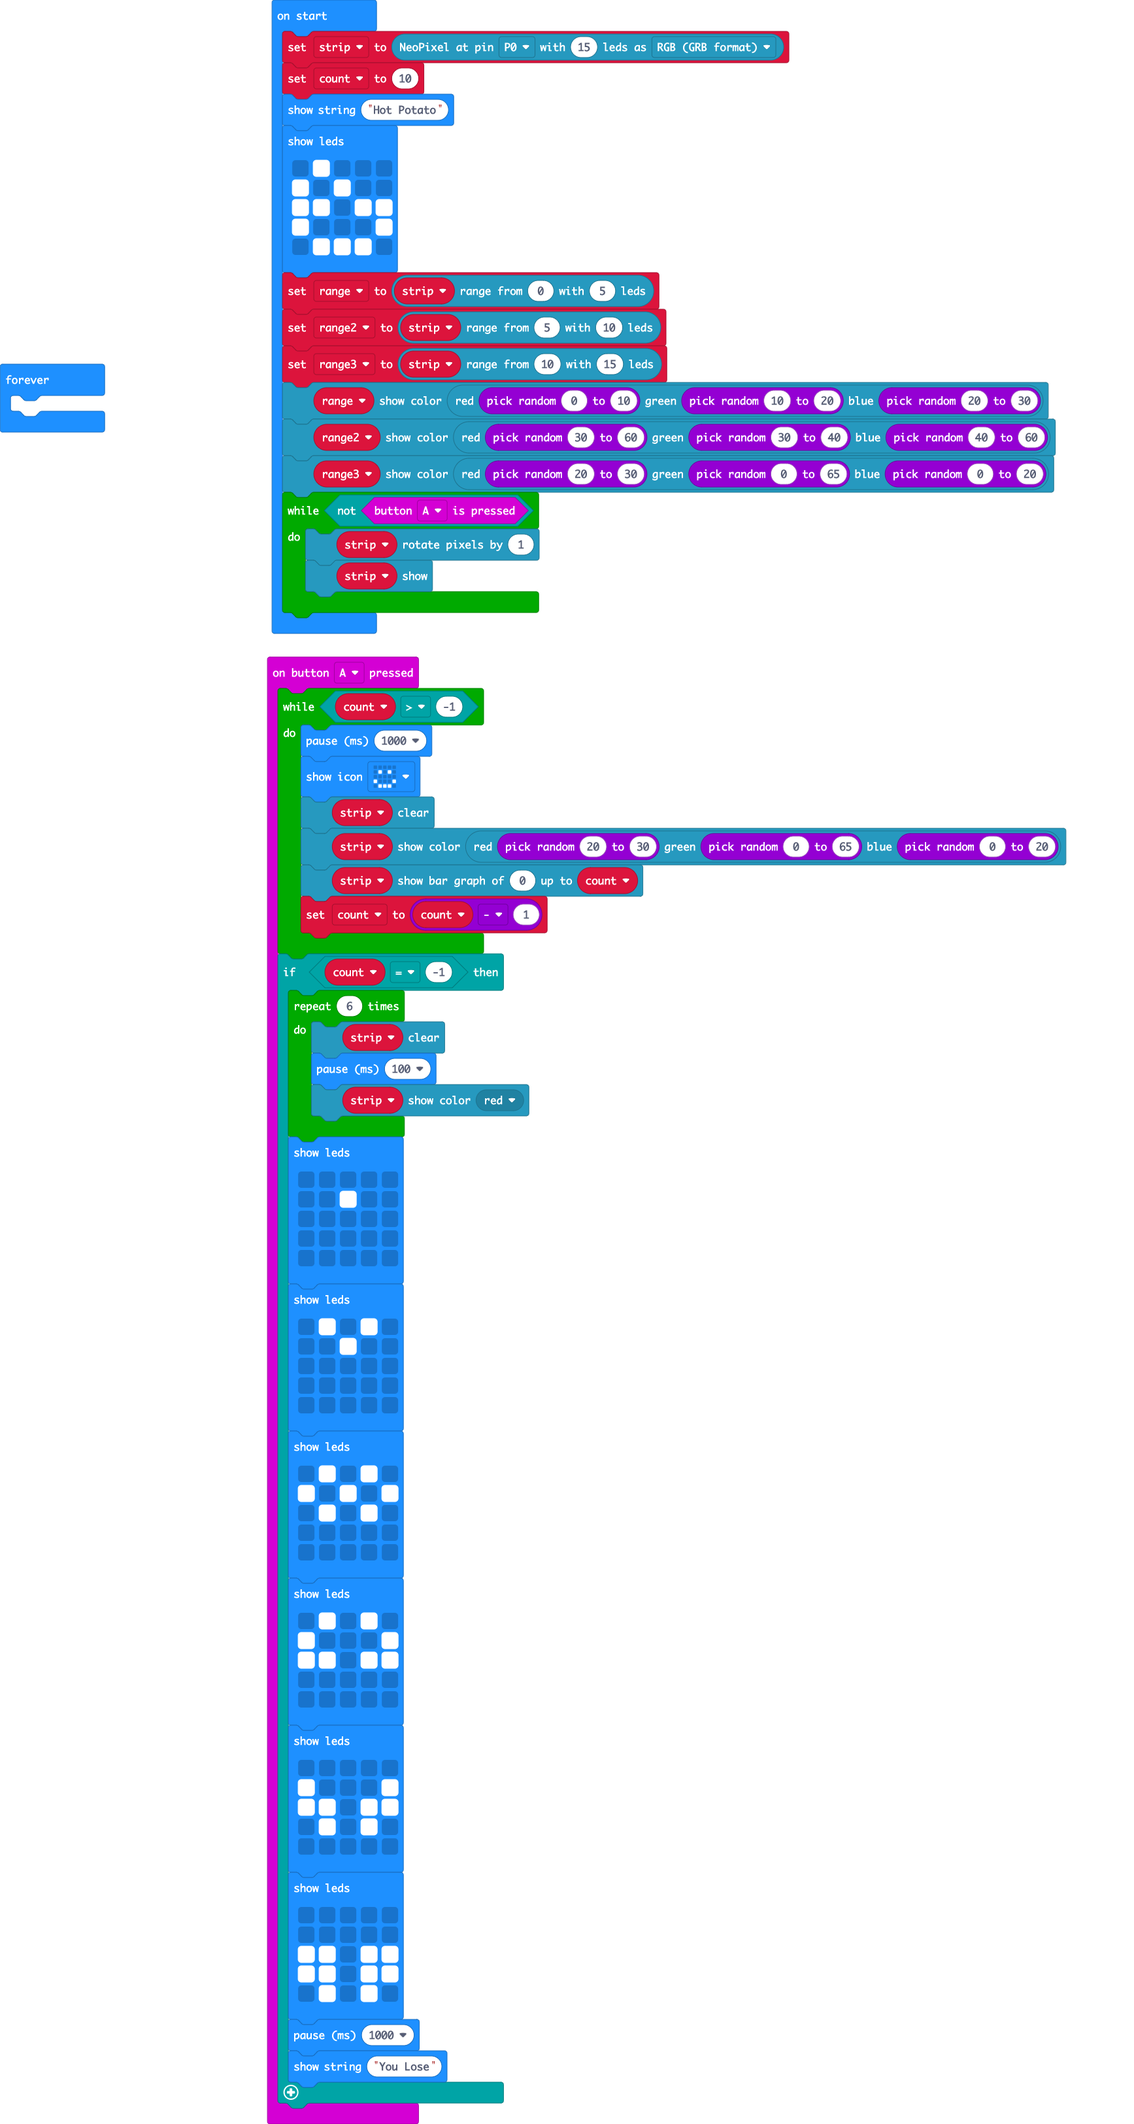
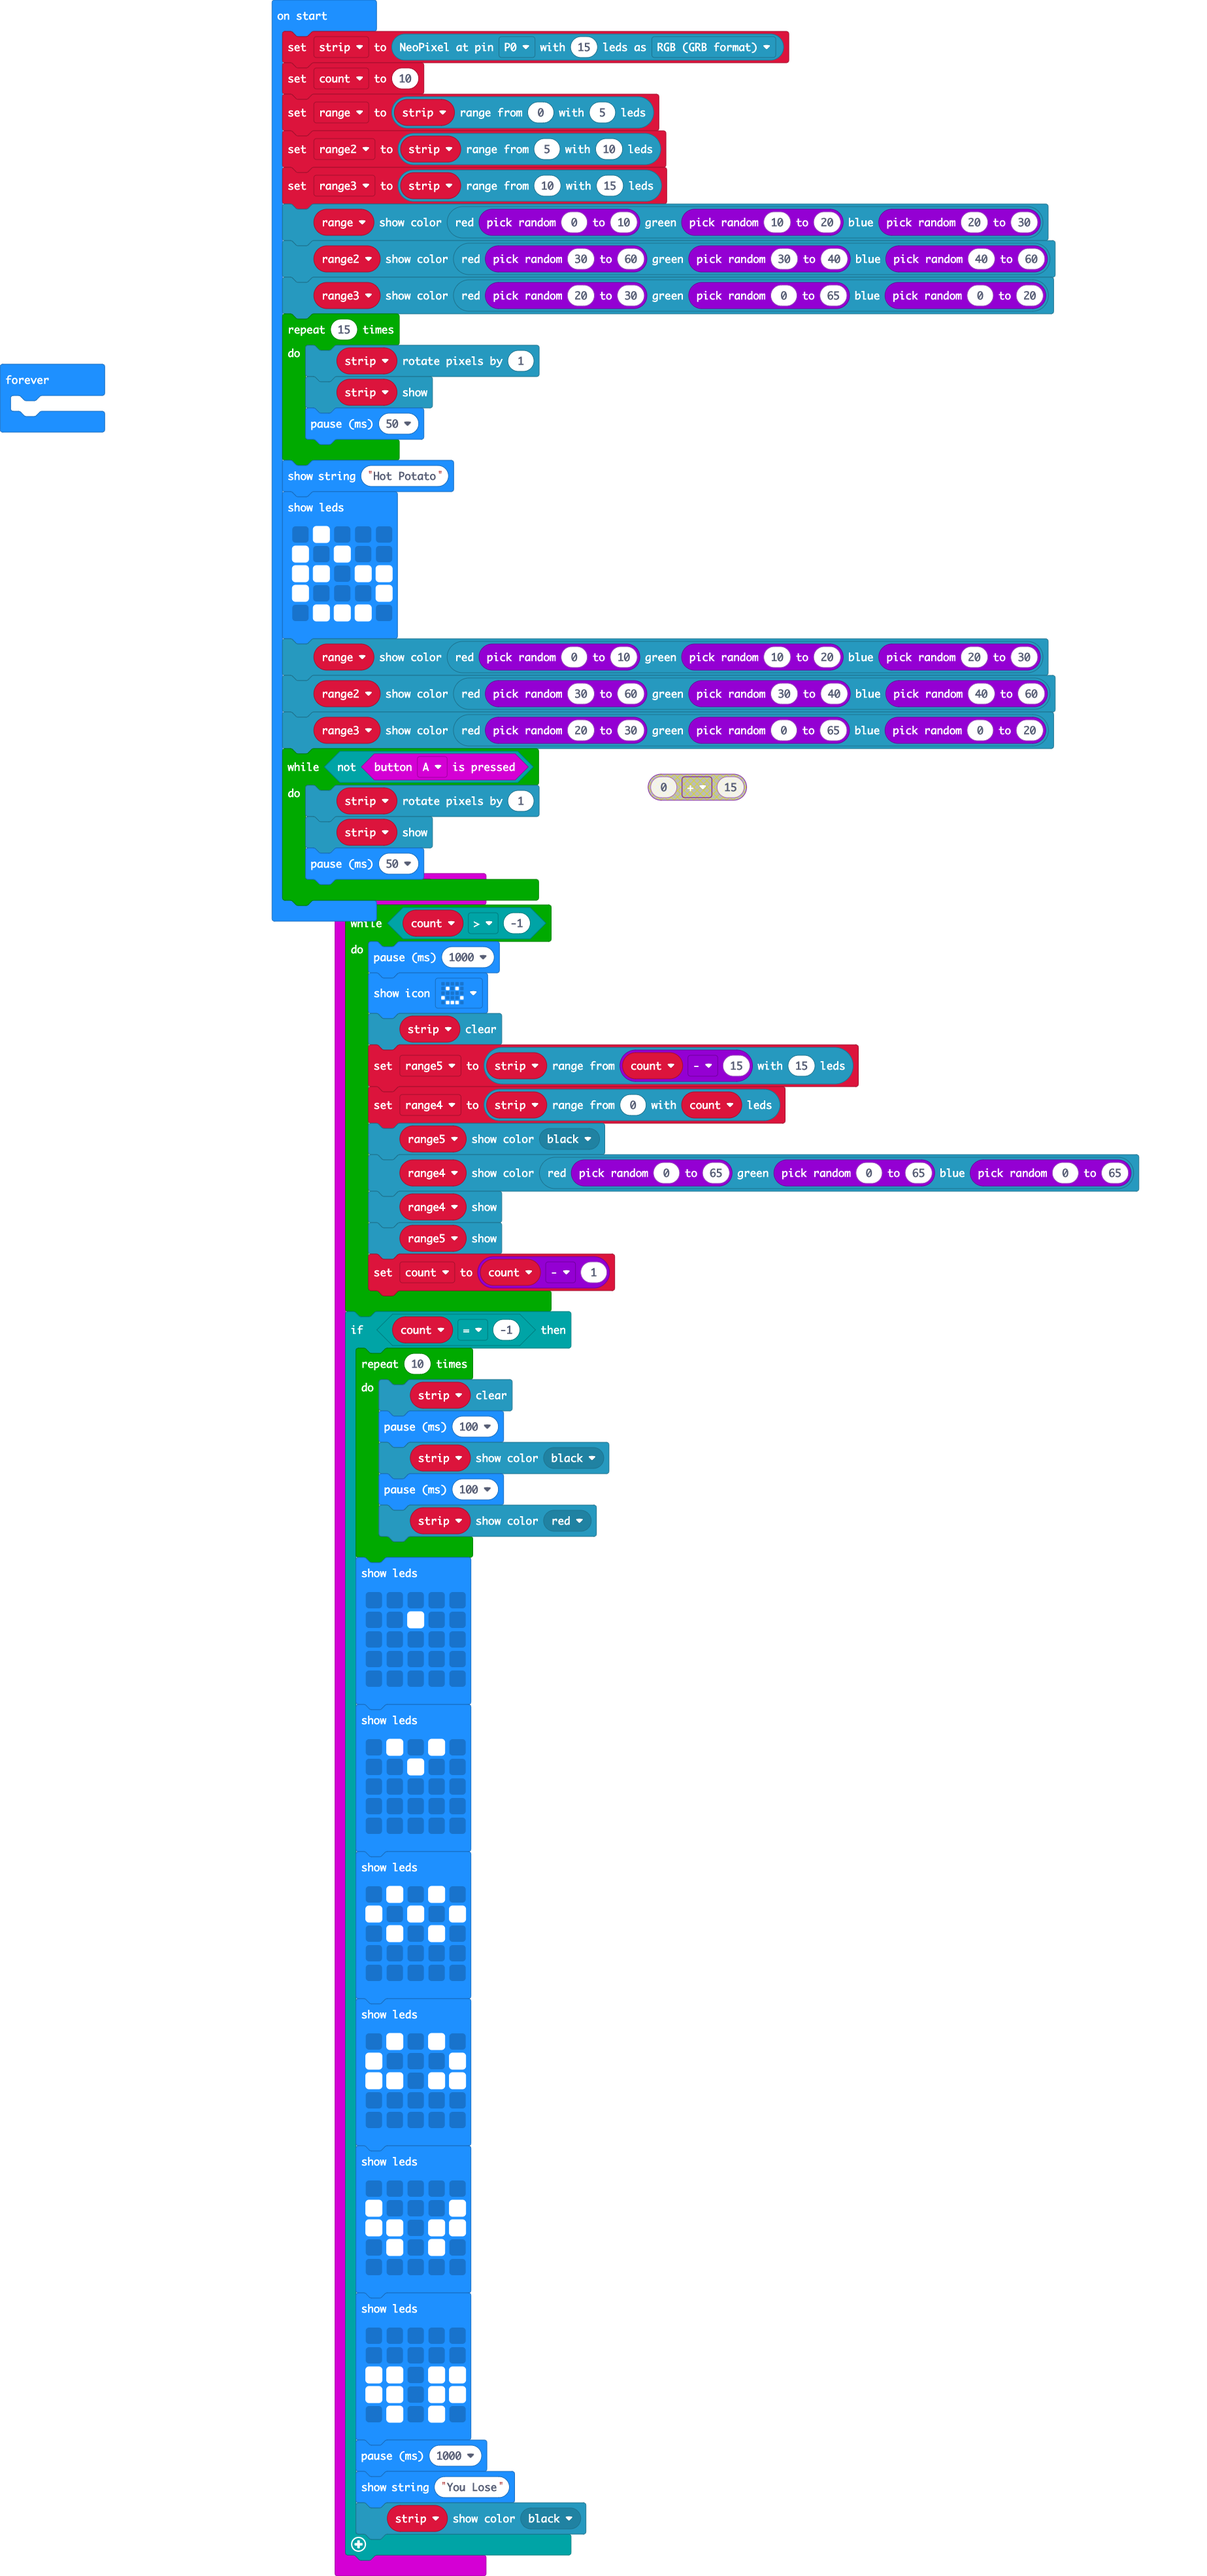
Update main.blocks, main.ts

Changed region(s): [[0.2179, 0.0, 0.9648, 1.0], [0.0, 0.1243, 0.0934, 0.2176]]

diff --git a/main.ts b/main.ts
@@ -3,13 +3,19 @@ input.onButtonPressed(Button.A, function () {
         basic.pause(1000)
         basic.showIcon(IconNames.Happy)
         strip.clear()
-        strip.showColor(neopixel.rgb(randint(20, 30), randint(0, 65), randint(0, 20)))
-        strip.showBarGraph(0, count)
+        range5 = strip.range(count - 15, 15)
+        range4 = strip.range(0, count)
+        range5.showColor(neopixel.colors(NeoPixelColors.Black))
+        range4.showColor(neopixel.rgb(randint(0, 65), randint(0, 65), randint(0, 65)))
+        range4.show()
+        range5.show()
         count = count - 1
     }
     if (count == -1) {
-        for (let index = 0; index < 6; index++) {
+        for (let index = 0; index < 10; index++) {
             strip.clear()
+            basic.pause(100)
+            strip.showColor(neopixel.colors(NeoPixelColors.Black))
             basic.pause(100)
             strip.showColor(neopixel.colors(NeoPixelColors.Red))
         }
@@ -57,12 +63,26 @@ input.onButtonPressed(Button.A, function () {
             `)
         basic.pause(1000)
         basic.showString("You Lose")
+        strip.showColor(neopixel.colors(NeoPixelColors.Black))
     }
 })
+let range4: neopixel.Strip = null
+let range5: neopixel.Strip = null
 let count = 0
 let strip: neopixel.Strip = null
 strip = neopixel.create(DigitalPin.P0, 15, NeoPixelMode.RGB)
 count = 10
+let range = strip.range(0, 5)
+let range2 = strip.range(5, 10)
+let range3 = strip.range(10, 15)
+range.showColor(neopixel.rgb(randint(0, 10), randint(10, 20), randint(20, 30)))
+range2.showColor(neopixel.rgb(randint(30, 60), randint(30, 40), randint(40, 60)))
+range3.showColor(neopixel.rgb(randint(20, 30), randint(0, 65), randint(0, 20)))
+for (let index = 0; index < 15; index++) {
+    strip.rotate(1)
+    strip.show()
+    basic.pause(50)
+}
 basic.showString("Hot Potato")
 basic.showLeds(`
     . # . . .
@@ -71,15 +91,13 @@ basic.showLeds(`
     # . . . #
     . # # # .
     `)
-let range = strip.range(0, 5)
-let range2 = strip.range(5, 10)
-let range3 = strip.range(10, 15)
 range.showColor(neopixel.rgb(randint(0, 10), randint(10, 20), randint(20, 30)))
 range2.showColor(neopixel.rgb(randint(30, 60), randint(30, 40), randint(40, 60)))
 range3.showColor(neopixel.rgb(randint(20, 30), randint(0, 65), randint(0, 20)))
 while (!(input.buttonIsPressed(Button.A))) {
     strip.rotate(1)
     strip.show()
+    basic.pause(50)
 }
 basic.forever(function () {
 	
